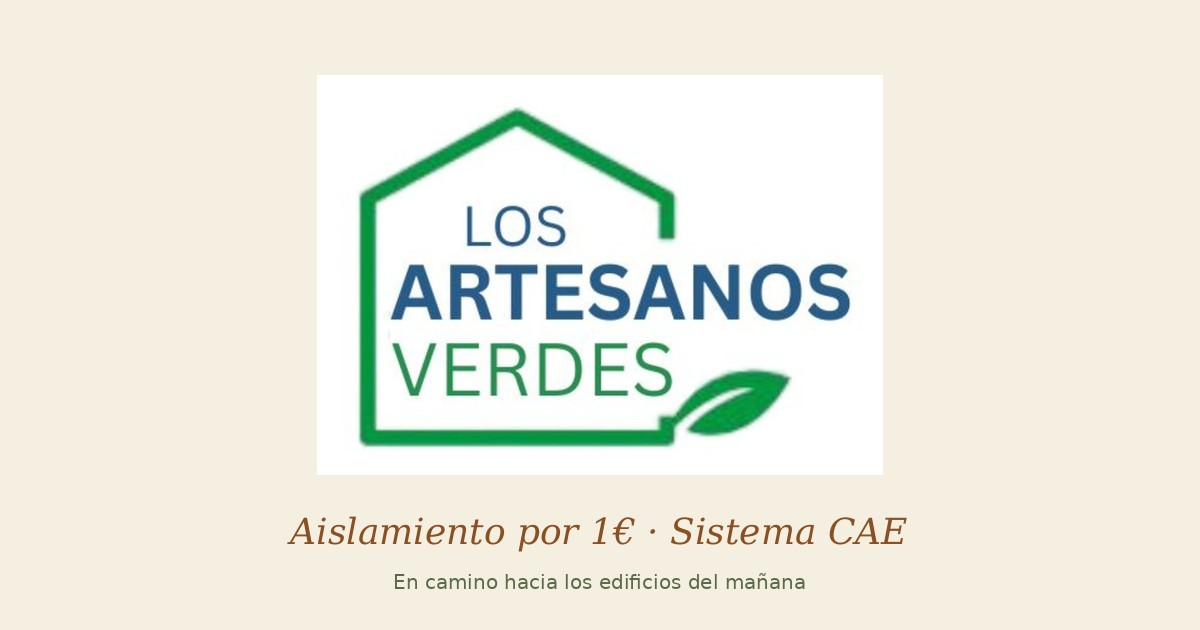
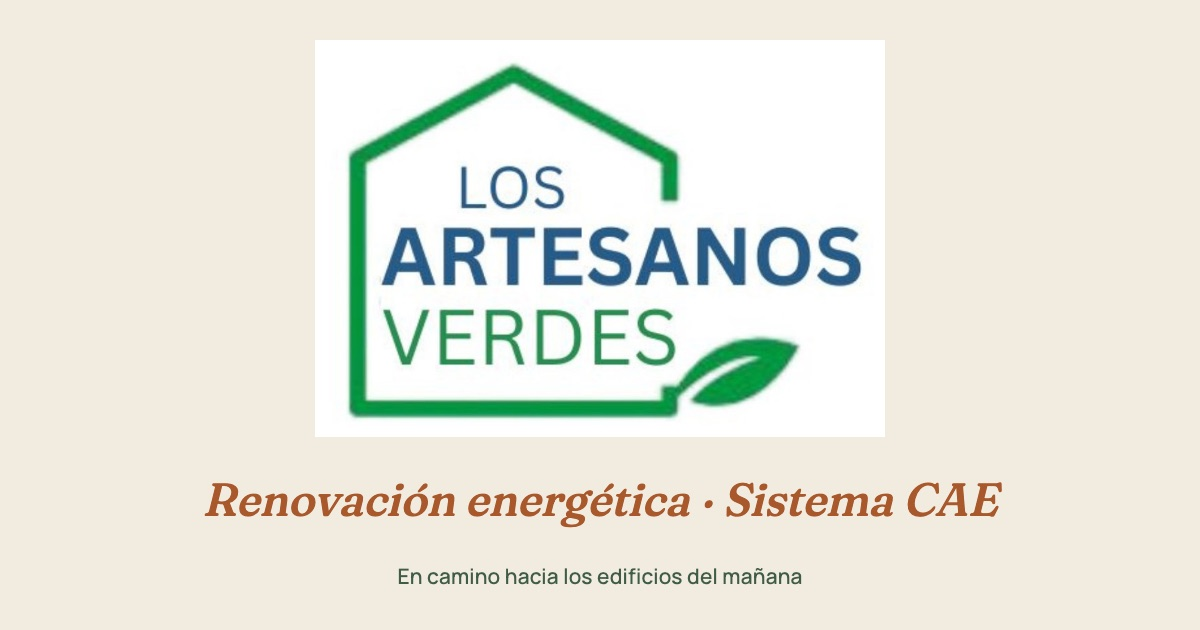
fix(présentation): sort les cartes du hero et purge le « 1 € » des images de partage
Cartes sorties du hero
Les cartes d'infographie et d'offre occupaient la moitié droite du hero et
recouvraient la photo : il ne restait qu'une soixantaine de pixels de photo
visible entre le titre et la carte. Les visuels perdaient tout leur sens.
La page aire-aire, seule à ne pas avoir de carte, montrait le rendu attendu.

Les trois autres pages s'alignent dessus : le visuel vit désormais dans une
section .hero-figure sous le hero, où il s'affiche en 1080 px de large, et
la photo du hero redevient entièrement visible.
- .hero-figure-inner porte position: relative, car .hero-stamp — le
  médaillon « 11+ años » — est en position absolue et s'ancrait auparavant
  sur .hero-visual.
- .offer-card--static rend à la carte d'offre le flux normal : elle était
  positionnée en absolu dans le hero.

Le « 1 € » était peint dans l'image de partage
og-image.jpg contenait « Aislamiento por 1€ · Sistema CAE » en pixels. Aucun
grep ne pouvait la trouver, et cette vignette accompagnait chaque lien
partagé sur WhatsApp, Facebook et LinkedIn — y compris après la purge du
texte. Image régénérée à l'identique de mise en page, avec « Renovación
energética · Sistema CAE ». 1200 × 630, 76 Ko.

blog/assets/og-default.jpg pesait 2,2 Mo en 1402 × 1122, un ratio inadapté
aux aperçus sociaux qui provoquait un recadrage arbitraire par les
plateformes. Recadrée en 1200 × 628 et ramenée à 184 Ko. Aucun texte n'y
figure : c'est une photographie de chantier, elle était déjà conforme.

Changed region(s): [[0.1542, 0.0603, 0.8325, 0.8746], [0.3083, 0.9048, 0.6783, 0.9349]]

diff --git a/assets/site.css b/assets/site.css
@@ -330,6 +330,44 @@
     z-index: 1;
   }
 
+  /* ===== VISUEL SORTI DU HERO =====
+     Les cartes d'infographie occupaient la moitie droite du hero et
+     recouvraient la photo : il ne restait qu'une soixantaine de pixels de
+     photo visible entre le titre et la carte. Le visuel vit desormais dans
+     sa propre section, sous le hero, ou il est lisible en pleine largeur —
+     et la photo du hero redevient visible. */
+  .hero-figure {
+    padding: 4.5rem 2.5rem;
+    background: var(--ivory);
+  }
+  .hero-figure-inner {
+    max-width: 1080px;
+    margin: 0 auto;
+    display: flex;
+    justify-content: center;
+    /* .hero-stamp est en position absolue et s'ancrait sur .hero-visual :
+       sans conteneur positionne ici, il se rattacherait au viewport. */
+    position: relative;
+    min-height: 180px;
+    align-items: center;
+  }
+  .hero-figure-inner img {
+    width: 100%;
+    height: auto;
+    border-radius: 10px;
+    box-shadow: 0 24px 60px -24px rgba(10, 24, 16, 0.28);
+  }
+  /* La carte d'offre etait positionnee en absolu dans .hero-visual.
+     Hors du hero, elle doit reprendre le flux normal. */
+  .offer-card--static {
+    position: static;
+    width: 100%;
+    max-width: 620px;
+  }
+  @media (max-width: 768px) {
+    .hero-figure { padding: 3rem 1.5rem; }
+  }
+
   .offer-card {
     position: absolute;
     top: 0; right: 0;

diff --git a/servicios/aerotermia/index.html b/servicios/aerotermia/index.html
@@ -407,11 +407,15 @@
     </div>
   </div>
 
-  <div class="hero-visual reveal reveal-delay-2">
-    <img src="/assets/servicios/aerotermia-hero.svg"
-         alt="Bomba de calor aerotérmica aire-agua que sustituye a una caldera de gas o gasóleo y produce calefacción y agua caliente sanitaria"
-         width="1200" height="630" loading="eager" fetchpriority="high"
-         style="width:100%;height:auto">
+</section>
+
+<!-- ESQUEMA DE LA SOLUCION -->
+<section class="hero-figure">
+  <div class="hero-figure-inner reveal">
+  <img src="/assets/servicios/aerotermia-hero.svg"
+  alt="Bomba de calor aerotérmica aire-agua que sustituye a una caldera de gas o gasóleo y produce calefacción y agua caliente sanitaria"
+  width="1200" height="630" loading="eager" fetchpriority="high"
+  style="width:100%;height:auto">
   </div>
 </section>
 

diff --git a/servicios/aislamiento-cubierta-inclinada/index.html b/servicios/aislamiento-cubierta-inclinada/index.html
@@ -297,8 +297,12 @@
     </div>
   </div>
 
-  <div class="hero-visual reveal reveal-delay-2">
-    <img src="/assets/servicios/cubierta-inclinada-hero.svg" alt="Aislamiento de los rampantes de una cubierta inclinada por el interior con TETRIS SUPER 12" width="1200" height="630" style="width:100%;height:auto">
+</section>
+
+<!-- ESQUEMA DE LA SOLUCION -->
+<section class="hero-figure">
+  <div class="hero-figure-inner reveal">
+  <img src="/assets/servicios/cubierta-inclinada-hero.svg" alt="Aislamiento de los rampantes de una cubierta inclinada por el interior con TETRIS SUPER 12" width="1200" height="630" style="width:100%;height:auto">
   </div>
 </section>
 

diff --git a/servicios/aislamiento-desvan/index.html b/servicios/aislamiento-desvan/index.html
@@ -263,9 +263,12 @@
       </div>
     </div>
   </div>
+</section>
 
-  <div class="hero-visual reveal reveal-delay-2">
-    <div class="offer-card">
+<!-- OFERTA CAE -->
+<section class="hero-figure">
+  <div class="hero-figure-inner reveal">
+    <div class="offer-card offer-card--static">
       <span class="offer-tag">Oferta vigente · Campaña CAE</span>
       <div class="offer-title">Aislamiento de desván</div>
       <div class="offer-price">
